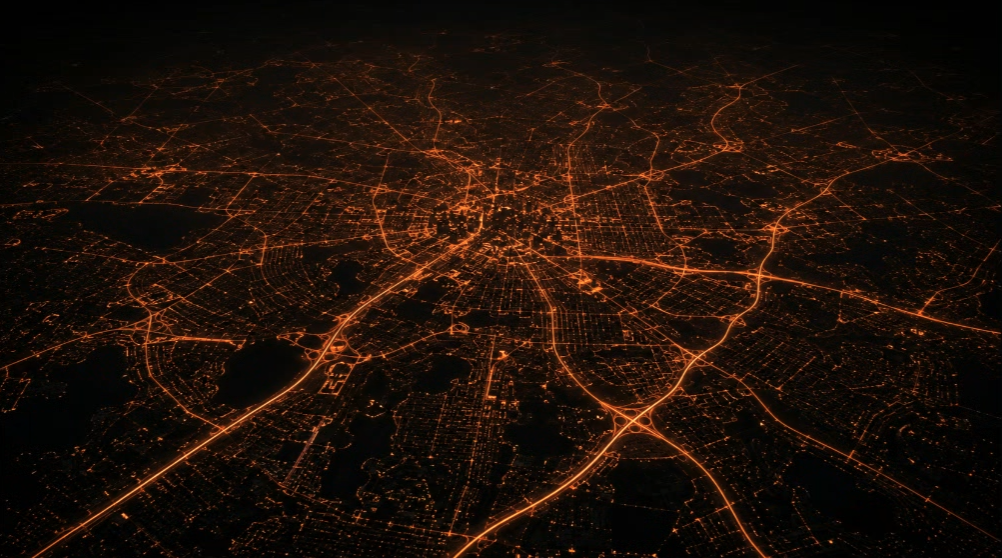
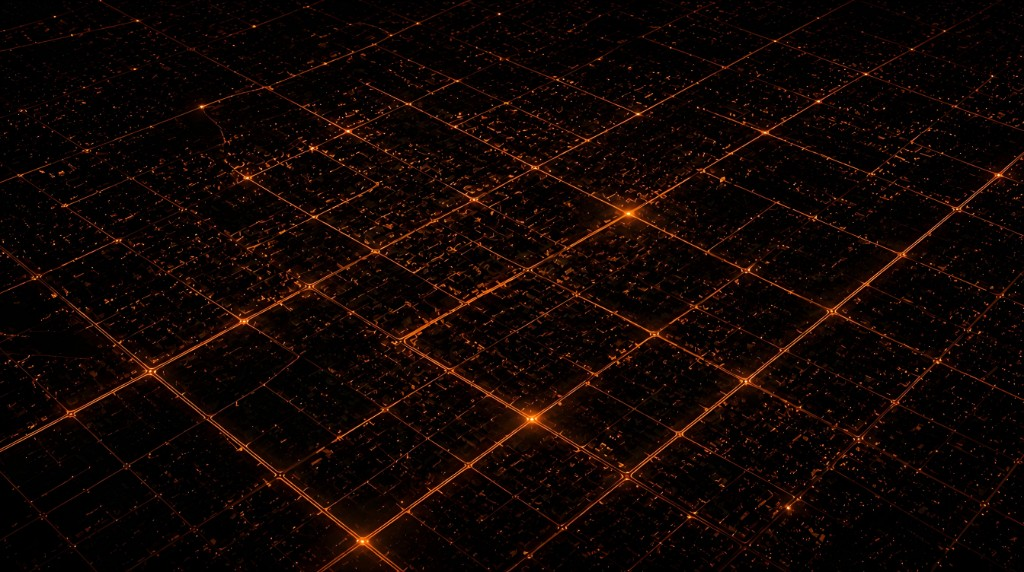
updated background image replace

diff --git a/MILESTONE-2.md b/MILESTONE-2.md
@@ -55,14 +55,23 @@ was the missing piece during the prototype phase — without it the asset
 read as a "rectangle of art pasted onto a black background" instead of a
 seamless layer.
 
-### Asset note
+### Asset note (artist delivery, May 2026)
 
-The cityscape file currently in the project is the **1002 × 558 PNG** the
-client supplied. That renders fine as a 0.42-opacity background layer on a
-1080p monitor. When her artist re-exports at the full **3840 × 2160** spec
-from *City Scape Background.odt*, dropping the new file at the same path
-(`Resources/Images/citymap_dark_4k.png`) will sharpen the layer
-automatically across 4K and multi-monitor setups — no XAML change needed.
+The client supplied a **new** cityscape image from their artist (the
+isometric orange road grid on black). It was received through chat; there
+was no separate source file attached.
+
+**Technical reality after ingest:** the file arrived as **JPEG data** inside a
+`.png` filename, decoded at **1024 × 572** pixels (not the 5376 × 3008 label
+on the filename — chat pipelines often recompress and downscale). The
+project stores a **proper PNG** at `Resources/Images/citymap_dark_4k.png`
+(~960 KB) so WPF decodes reliably. That resolution is enough for a crisp hero
+background at **1080p** with `Stretch="UniformToFill"` and `HighQuality`
+scaling at the current **0.42** opacity.
+
+**If the artist later sends a true high-res export** (e.g. 3840 × 2160 per
+*City Scape Background.odt*, or the original 5376 × 3008 master from their
+tooling), overwrite the same path — **no XAML change needed**.
 
 ## Acceptance criteria checklist
 
